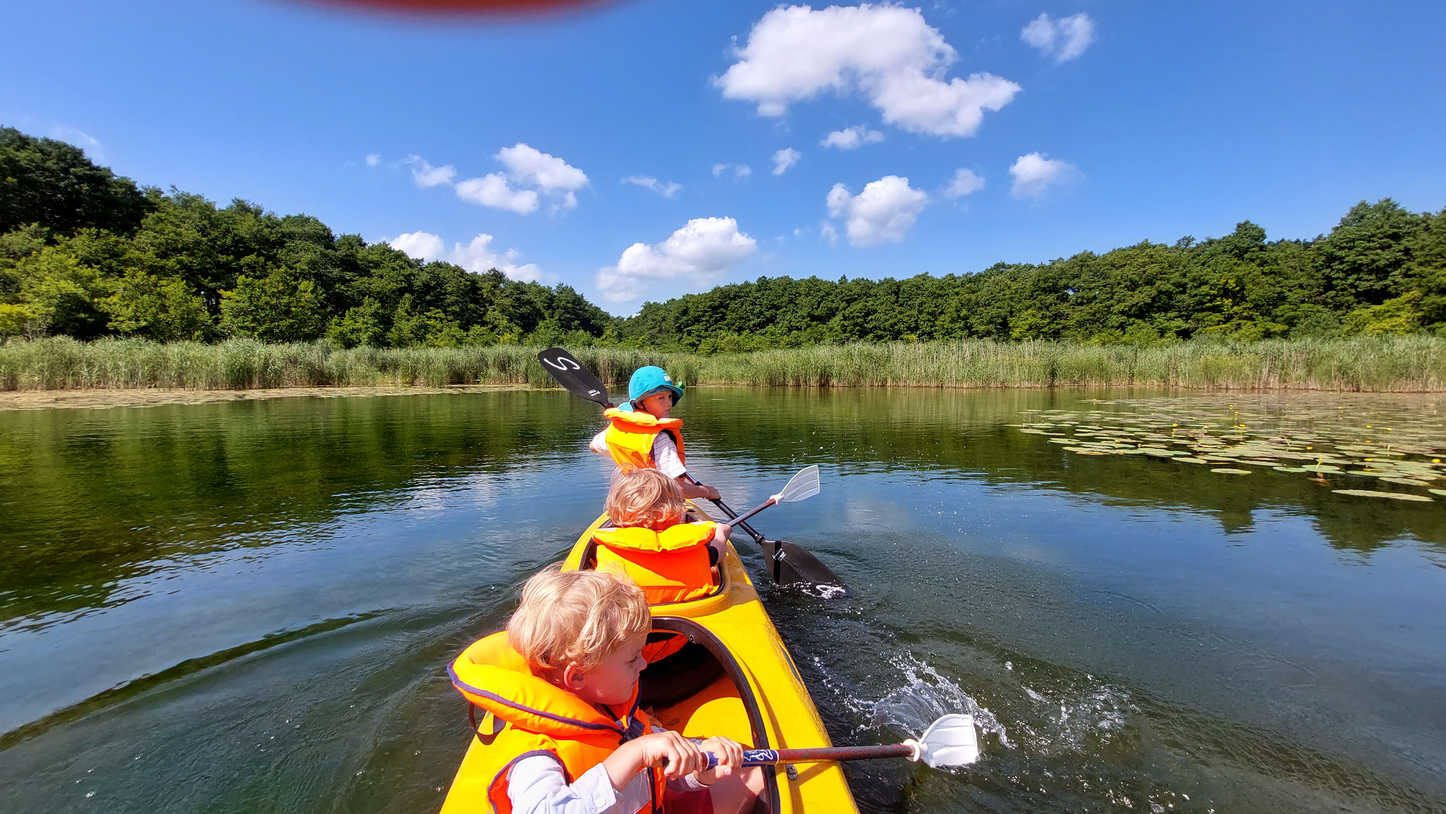
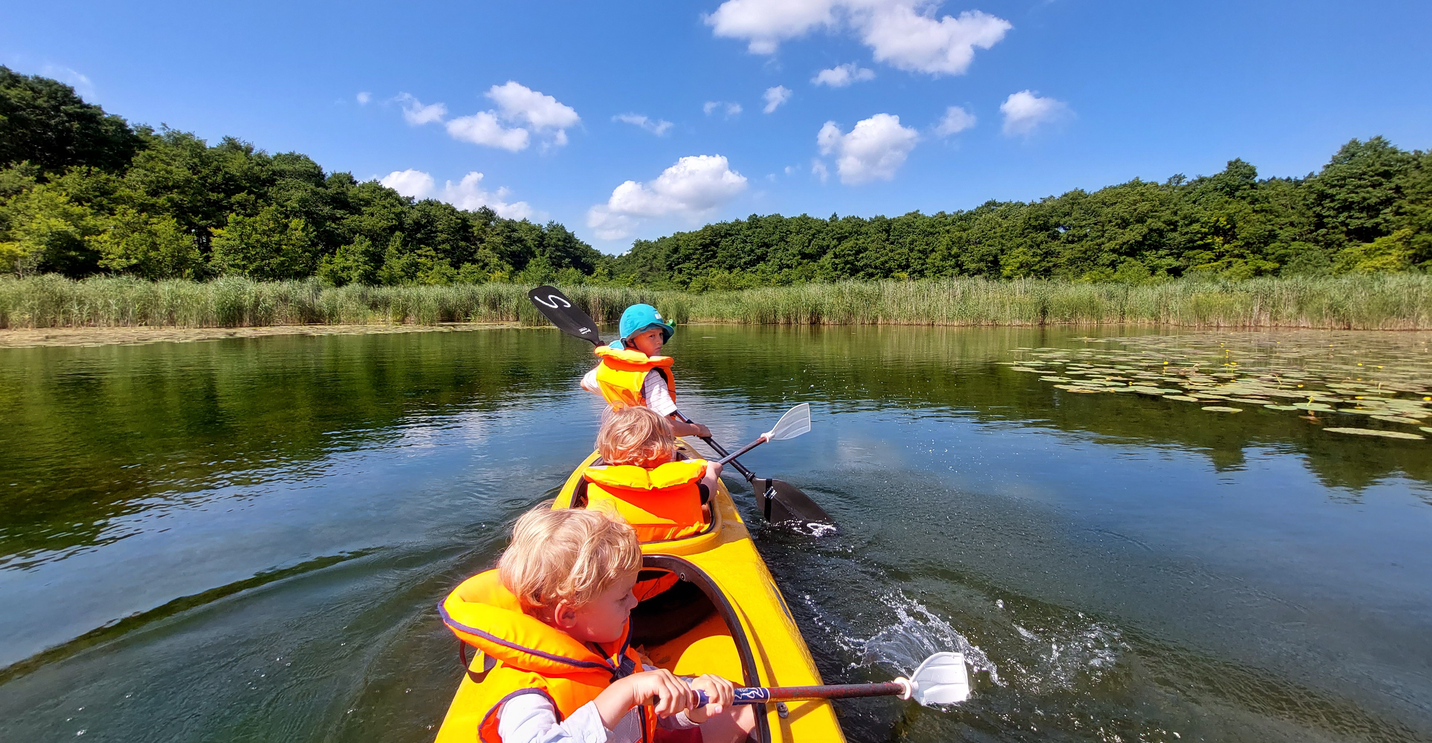
add more photos on canoeing

diff --git a/components/photos.tsx b/components/photos.tsx
@@ -55,9 +55,9 @@ export const photos = {
[12 lines of base64/hex data omitted]
@@ -105,7 +105,7 @@ export const photos = {
[8 lines of base64/hex data omitted]
@@ -169,7 +169,7 @@ export const photosBySlug: {[Key: string]: PhotoProps} = {
     'lütte-meierie': photos.Kratzeburg__Luette_Meierie,
     'bahnhof-kratzeburg-2': photos.Kratzeburg__Bahnhof_Kratzeburg_2,
     'bahnhof-kratzeburg-1': photos.Kratzeburg__Bahnhof_Kratzeburg_1,
-    '2023-06-04-16-03-02-20230604_160301': photos.Kratzeburg__2023_06_04_16_03_02_20230604_160301,
+    'kanu-fahren-auf-dem-käbelicksee': photos.Kratzeburg__Kanu_fahren_auf_dem_Kaebelicksee,
     'boottransport-kanu-hecht': photos.Kratzeburg__Boottransport_Kanu_Hecht,
     'bad-2-i': photos.Haus__Bad_2__Bad_2_I,
     'bad-2-iii': photos.Haus__Bad_2__Bad_2_III,

diff --git a/app/kratzeburg/page.tsx b/app/kratzeburg/page.tsx
@@ -59,6 +59,7 @@ export default function Home() {
             <Grid>
                 <Photo props={photos.Kratzeburg__Auf_der_Havel_bei_Granzin} />
                 <Photo props={photos.Kratzeburg__Paddeln_auf_der_Havel} />
+                <Photo props={photos.Kratzeburg__Kanu_fahren_auf_dem_Kaebelicksee} />
                 <Photo props={photos.Kratzeburg__Boottransport_Kanu_Hecht} />
                 <Card width={2100} height={1000} backgroundCyan={true}>
                     <p>Boote könnt ihr ausleihen bei <a href="https://maps.app.goo.gl/rPLZsK6edNstqsJw9">Kanu Hecht</a> (in Dalmsdorf, 1,2 km entfernt). Die holen euch nach Absprache auch mit den Booten von weiter havelabwärts wieder ab.</p>
